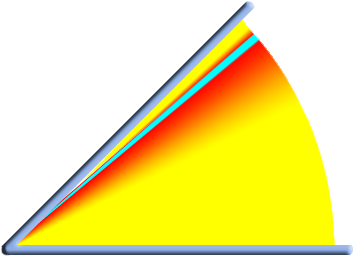
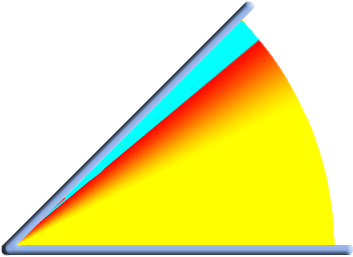
Added shiny thing, corrected precision, added sound and music

Changed region(s): [[0.187, 0.0623, 0.7167, 0.7782]]

diff --git a/src/com/madgear/ninjatrials/trials/TrialSceneJump.java b/src/com/madgear/ninjatrials/trials/TrialSceneJump.java
@@ -58,6 +58,7 @@ import com.madgear.ninjatrials.R;
 import com.madgear.ninjatrials.ResultLoseScene;
 import com.madgear.ninjatrials.ResultWinScene;
 import com.madgear.ninjatrials.managers.ResourceManager;
+import com.madgear.ninjatrials.managers.SFXManager;
 import com.madgear.ninjatrials.managers.SceneManager;
 import com.madgear.ninjatrials.hud.Chronometer;
 import com.madgear.ninjatrials.hud.GameHUD;
@@ -207,11 +208,12 @@ public class TrialSceneJump extends GameScene {
     private Chronometer chrono;
     private Character mCharacter;
     private ShineOnFloor mShineOnFloor;
+    private ShineOnWall mShineOnWall;
     private boolean cutEnabled = false;
     public TimerHandler trialTimerHandler; // era private, esto es una chapuza para poder salir de aquÃ pulsando Back
     private IUpdateHandler trialUpdateHandler;
     private final float readyTime = 4f;
-    private final float endingTime = 6f;
+    private final float endingTime = 2f;
     private int score = 0;
     private float[] scoreJump;
 
@@ -263,6 +265,8 @@ public class TrialSceneJump extends GameScene {
         chrono = new Chronometer(WIDTH - 200, HEIGHT - 200, 0, 50);
         mShineOnFloor = new ShineOnFloor(WIDTH / 2 - 300, 150);
         mShineOnFloor.activate();
+        mShineOnWall = new ShineOnWall(WIDTH / 2 - 300, 150);
+        mShineOnWall.activate();
         
 
     }
@@ -280,10 +284,10 @@ public class TrialSceneJump extends GameScene {
         
         attachChild(mCharacter);
         attachChild(mShineOnFloor);
+        attachChild(mShineOnWall);
         ResourceManager.getInstance().engine.getCamera().setHUD(gameHUD);
         gameHUD.attachChild(angleBar);
         gameHUD.attachChild(chrono);
-        
 
         readySequence();
     }
@@ -354,6 +358,7 @@ public class TrialSceneJump extends GameScene {
     			
     			if (seconds >= 0.5f && jumpMessage) {
     				gameHUD.showMessage(ResourceManager.getInstance().loadAndroidRes().getString(R.string.trial_jump_go), 0, 1);
+    				SFXManager.playMusic(ResourceManager.getInstance().trialJump);
     		         // Dani, lo de "Jump!" sÃ³lo tiene que mostrarse una vez al principio, no cada vez que se salte :)
     		        	chrono.stop();
     		        	chrono.setTimeValue(0f);
@@ -374,7 +379,6 @@ public class TrialSceneJump extends GameScene {
     			if (destinyg[1] > 0)
     				mShineOnFloor.setVisible(false);
     			else {
-    				mShineOnFloor.setVisible(true);
     				mShineOnFloor.shine();
     			}
             }
@@ -401,8 +405,25 @@ public class TrialSceneJump extends GameScene {
         scoreJump = getScoreJump();
         frameNum = 0;
         
-        if (scoreJump[2] == 1)
+        //delete in final (now used to test perfects ;)
+        boolean itShined = false;
+        //
+        if (scoreJump[2] == 1) {
+        	if (scoreJump[0] == angleBar.getMaxScore() && destinyg[1] != 0) {
+        		SFXManager.playSound(ResourceManager.getInstance().trialJumpWhoosh3);
+        		mShineOnWall.shine();
+        		itShined = true;
+        	}
+        	else if (scoreJump[0] > angleBar.getMaxScore() - 30)
+        		SFXManager.playSound(ResourceManager.getInstance().trialJumpWhoosh2);
+        	else 
+        		SFXManager.playSound(ResourceManager.getInstance().trialJumpWhoosh1);
+        		
         	origin = mCharacter.jump(origin, scoreJump); // <-
+        	//delete in final (now used to test perfects ;)
+        	System.out.println("score = "+ scoreJump[0] + "maxScore="+ angleBar.getMaxScore()+ "itShined="+ itShined);
+        	//
+        }
         else
         	origin = mCharacter.fall(origin, scoreJump);
         
@@ -466,6 +487,7 @@ public class TrialSceneJump extends GameScene {
     public void endingAnimationSequence() {
     	//do something
     	chrono.stop();
+    	SFXManager.stopMusic(ResourceManager.getInstance().trialJump);
     	if (!falling)
     		saveTrialResults();
     	else
@@ -503,9 +525,11 @@ public class TrialSceneJump extends GameScene {
     public static int getTimeScore() {
         
     	//maybe add a factor. 13 secs + 9 perfect + 9 combo = 9800 aprox
-    	//TODO: poner cabeza. poner efectos graficos de suelo (buscar sitio para segunda vez) y de pared si perfect
-    	// . sonidos. musica
-    	int timeScore = Math.round((50 - (GameManager.player1result.jumpTime - 8)) * 100); //8 seg es el minimo
+    	//TODO: segunda iteración: Que la cámara no pierda de vista al personaje.
+    	//poner cabeza (cambia con cursor).
+    	//  que cuando alf termine los logros se guarde.
+    	//las dificultades (pixeles de perfect y tiempo maximo)
+    	int timeScore = Math.round((50 - (GameManager.player1result.jumpTime - 8)) * 150); //8 seg es el minimo
     	System.out.println("time="+(int) GameManager.player1result.jumpTime);
     	return (int) timeScore;
     }
@@ -513,13 +537,13 @@ public class TrialSceneJump extends GameScene {
     public static int getPerfectJumpScore() {
         
     	System.out.println("perfects"+GameManager.player1result.jumpPerfectJumpCombo);
-    	return GameManager.player1result.jumpPerfectJumpCombo * 100;
+    	return GameManager.player1result.jumpPerfectJumpCombo * 75;
     }
 
     public static int getMaxPerfectJumpScore() {
         
     	System.out.println("MaxPerfects"+GameManager.player1result.jumpMaxPerfectJumpCombo);
-    	return GameManager.player1result.jumpMaxPerfectJumpCombo * 500;
+    	return GameManager.player1result.jumpMaxPerfectJumpCombo * 425;
     }
     
     /**
@@ -701,7 +725,34 @@ public class TrialSceneJump extends GameScene {
         		destiny[1] = origin[1] - 1000f;
         		
         		charSprite.animate(new long[] { 125, 125, 125, 125, 125,
-        				125, 125, 125}, new int[] {20, 21, 20, 21, 22, 23, 22, 23}, false);
+        				125, 125, 125}, new int[] {20, 21, 20, 21, 22, 23, 22, 23}, false,  new IAnimationListener(){
+    				@Override
+    				public void onAnimationFinished(AnimatedSprite pAnimatedSprite){
+    					SFXManager.playSound(ResourceManager.getInstance().trialJumpThud);
+    				}
+					@Override
+					public void onAnimationStarted(
+							AnimatedSprite pAnimatedSprite,
+							int pInitialLoopCount) {
+						SFXManager.playSound(ResourceManager.getInstance().trialJumpFall);
+					}
+					@Override
+					public void onAnimationFrameChanged(
+							AnimatedSprite pAnimatedSprite,
+							int pOldFrameIndex, int pNewFrameIndex) {
+						if (pNewFrameIndex == 1)
+							SFXManager.playSound(ResourceManager.getInstance().trialJumpWobble);
+						else if (pNewFrameIndex == 5)
+							SFXManager.playSound(ResourceManager.getInstance().trialJumpSlip);
+						
+							
+					}
+					@Override
+					public void onAnimationLoopFinished(
+							AnimatedSprite pAnimatedSprite,
+							int pRemainingLoopCount, int pInitialLoopCount) {
+					}
+    	});
             	Path path = new Path(2).to(origin[0], origin[1])
             			.to(destiny[0],destiny[1]);
             	charSprite.registerEntityModifier(new PathModifier(1f, path));	
@@ -709,6 +760,7 @@ public class TrialSceneJump extends GameScene {
         	else{
         		//fall and continue playing
         		destiny[1] = 0f;
+        		destinyg = destiny;
         		charSprite.animate(new long[] { 125, 125, 125, 125, 125,
         				125, 125, 125}, new int[] {20, 21, 20, 21, 22, 23, 22, 23}, false, new IAnimationListener(){
     				@Override
@@ -716,9 +768,11 @@ public class TrialSceneJump extends GameScene {
     					start();
     					angleBar.setCursorValueToBeginning();
 						cutEnabled = true;
-						//TODO: search the correct place for this
-						mShineOnFloor.setX(mCharacter.getX());
-		        		mShineOnFloor.setY(mCharacter.getY() - 170f);
+						mShineOnFloor.setX(destinyg[0] - 640f);
+		        		mShineOnFloor.setY(destinyg[1] - 300f);
+		        		mShineOnFloor.setVisible(true);
+		        		//In this one it will continue playing so the sound is slightly different.
+		        		SFXManager.playSound(ResourceManager.getInstance().trialJumpThud);
     				}
 					@Override
 					public void onAnimationStarted(
@@ -728,7 +782,13 @@ public class TrialSceneJump extends GameScene {
 					@Override
 					public void onAnimationFrameChanged(
 							AnimatedSprite pAnimatedSprite,
-							int pOldFrameIndex, int pNewFrameIndex) {	
+							int pOldFrameIndex, int pNewFrameIndex) {
+						if (pNewFrameIndex == 1)
+							SFXManager.playSound(ResourceManager.getInstance().trialJumpWobble);
+						else if (pNewFrameIndex == 5)
+							SFXManager.playSound(ResourceManager.getInstance().trialJumpSlip);
+						
+							
 					}
 					@Override
 					public void onAnimationLoopFinished(
@@ -795,6 +855,10 @@ public class TrialSceneJump extends GameScene {
 								angleBar.setCursorValueToBeginning();
 								angleBar.start();
 								cutEnabled = true;
+								if (Math.random() > 0.5)
+									SFXManager.playSound(ResourceManager.getInstance().trialJumpTap1);
+								else
+									SFXManager.playSound(ResourceManager.getInstance().trialJumpTap2);
 							}
 							
 							
@@ -810,6 +874,7 @@ public class TrialSceneJump extends GameScene {
         	});
         	}
         	else {
+        		//SFXManager.playSound(ResourceManager.getInstance().trialJumpReach);
         		charSprite.animate(new long[] { 75, 75, 75, 75, 75
             			, 75, 75, 75}, new int[] {8, 9, 10, 11, 16, 17, 18, 19}, false);
         		if (destiny[0] == jumpRight) {
@@ -820,7 +885,6 @@ public class TrialSceneJump extends GameScene {
         			destiny[0] -= 160f;
         			destiny[1] += 130f;
         		}
-        			
         	}
         		
         	
@@ -874,6 +938,54 @@ public class TrialSceneJump extends GameScene {
                                     int pRemainingLoopCount, int pInitialLoopCount) {}
                             @Override
                             public void onAnimationFinished(AnimatedSprite pAnimatedSprite) {}
+                });
+            	}
+            }
+        }
+
+        private class ShineOnWall extends Entity {
+            private final static long SPARK_TIME = 200;
+            private AnimatedSprite shineSprite;
+            private boolean active = false;
+
+            public ShineOnWall(float posX, float posY) {
+                shineSprite = new AnimatedSprite(posX, posY,
+                        ResourceManager.getInstance().jumpEffectWallKick,
+                        ResourceManager.getInstance().engine.getVertexBufferObjectManager());
+                shineSprite.setVisible(false);
+                attachChild(shineSprite);
+            }
+            
+            public void activate() {
+            	active = true;
+            }
+
+            public void shine() {
+            	if (active) {
+            		//active = false;
+            	shineSprite.setX(destinyg[0]);
+            	shineSprite.setY(destinyg[1]);
+            	if (destinyg[0] > WIDTH / 2)
+            		shineSprite.setFlippedHorizontal(true);
+            	else
+            		shineSprite.setFlippedHorizontal(false);
+            	
+                shineSprite.setVisible(true);
+                shineSprite.animate(
+                        new long[] {SPARK_TIME / 4, SPARK_TIME / 4, SPARK_TIME / 4, SPARK_TIME / 4},
+                        new int[] {0,1,2,3},
+                        false, new IAnimationListener(){
+                            @Override
+                            public void onAnimationStarted(AnimatedSprite pAnimatedSprite,
+                                    int pInitialLoopCount) {}
+                            @Override
+                            public void onAnimationFrameChanged(AnimatedSprite pAnimatedSprite,
+                                    int pOldFrameIndex, int pNewFrameIndex) {}
+                            @Override
+                            public void onAnimationLoopFinished(AnimatedSprite pAnimatedSprite,
+                                    int pRemainingLoopCount, int pInitialLoopCount) {}
+                            @Override
+                            public void onAnimationFinished(AnimatedSprite pAnimatedSprite) {shineSprite.setVisible(false);}
                 });
             	}
             }

diff --git a/src/com/madgear/ninjatrials/managers/ResourceManager.java b/src/com/madgear/ninjatrials/managers/ResourceManager.java
@@ -981,20 +981,20 @@ public class ResourceManager {
             jumpEffectPreparationBit.load();
         }
 
-        //if (jumpEffectWallKick == null) {
-        //    BuildableBitmapTextureAtlas jumpEffectWallKickBit = new BuildableBitmapTextureAtlas(
-        //            textureManager, 406, 590, mTransparentTextureOption);
-        //    jumpEffectWallKick = BitmapTextureAtlasTextureRegionFactory.createTiledFromAsset(
-        //            jumpEffectWallKickBit, context, "jump_effect_wall_kick.png", 2, 2);
-        //    try {
-        //        jumpEffectWallKickBit.build(new BlackPawnTextureAtlasBuilder<IBitmapTextureAtlasSource,
-        //                BitmapTextureAtlas>(0, 0, 0));
-        //    }
-        //    catch (TextureAtlasBuilderException e) {
-        //        e.printStackTrace();
-        //    }
-        //    jumpEffectWallKickBit.load();
-        //}
+        if (jumpEffectWallKick == null) {
+            BuildableBitmapTextureAtlas jumpEffectWallKickBit = new BuildableBitmapTextureAtlas(
+                    textureManager, 406, 590, mTransparentTextureOption);
+            jumpEffectWallKick = BitmapTextureAtlasTextureRegionFactory.createTiledFromAsset(
+                    jumpEffectWallKickBit, context, "jump_effect_wall_kick.png", 2, 2);
+            try {
+                jumpEffectWallKickBit.build(new BlackPawnTextureAtlasBuilder<IBitmapTextureAtlasSource,
+                        BitmapTextureAtlas>(0, 0, 0));
+            }
+            catch (TextureAtlasBuilderException e) {
+                e.printStackTrace();
+            }
+            jumpEffectWallKickBit.load();
+        }
     }
 
 

diff --git a/src/com/madgear/ninjatrials/hud/PrecisionAngleBar.java b/src/com/madgear/ninjatrials/hud/PrecisionAngleBar.java
@@ -45,7 +45,7 @@ public class PrecisionAngleBar extends Entity {
     private final float cursorMin = 0f;
     private final float cursorMax = 210f; //maybe dangerous. if doesnt work turn back to 200
     private float maxScore = cursorMax - 5f;
-    private float perfectScoreRange = cursorMax - 20f;
+    private float perfectScoreRange = cursorMax - 30f;
     private float cursorValue = 0f;
     private float speed;
     private int direction = 1;
@@ -123,7 +123,7 @@ public class PrecisionAngleBar extends Entity {
     public float[] getPowerValue() {
     	if (cursorValue <= 0 )
     		cursorValue = maxScore;
-    	if (cursorValue >= perfectScoreRange) //cursorMax - 10f
+    	if (cursorValue >= perfectScoreRange) //cursorMax - 20f
     		cursorValue = maxScore; //cursorMax - 5f if not changed up
     	
     	float[] result = new float[] {cursorValue, cursorMax - cursorValue, jump};
